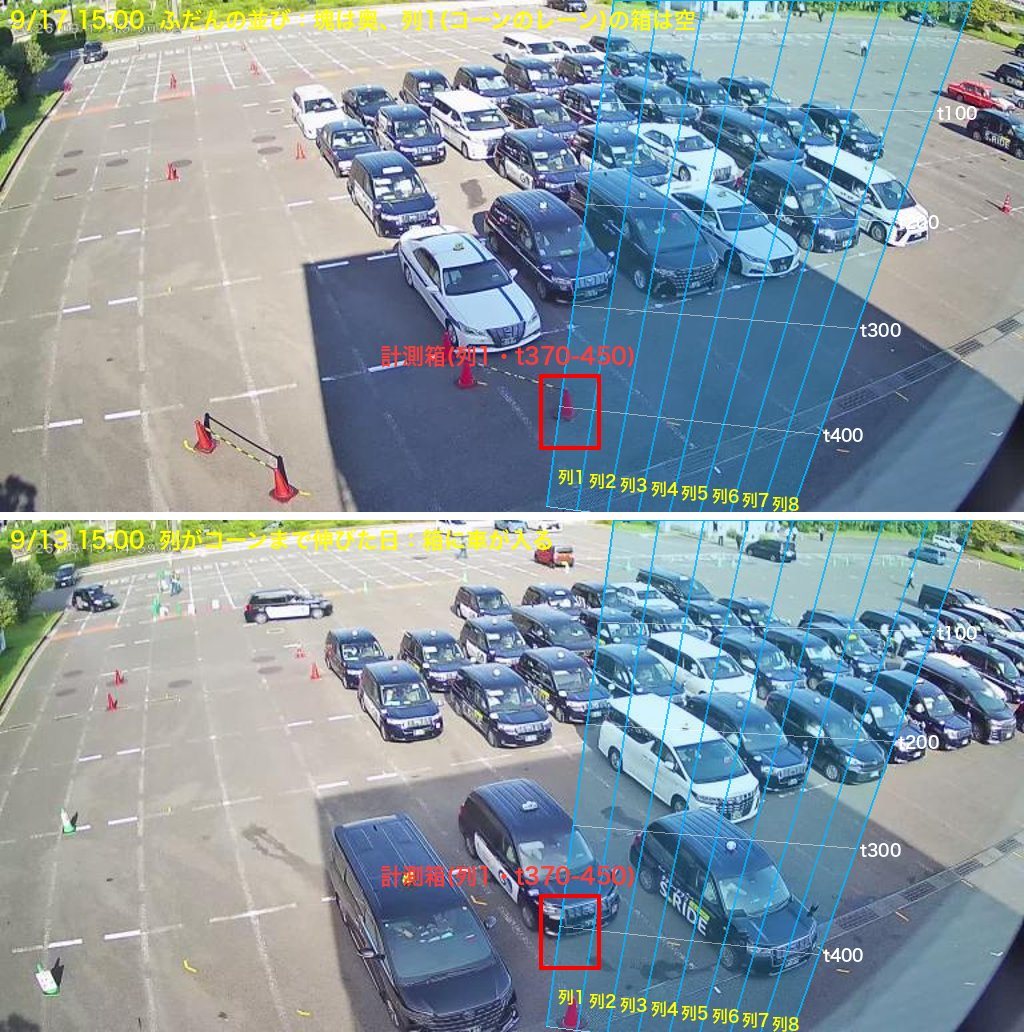
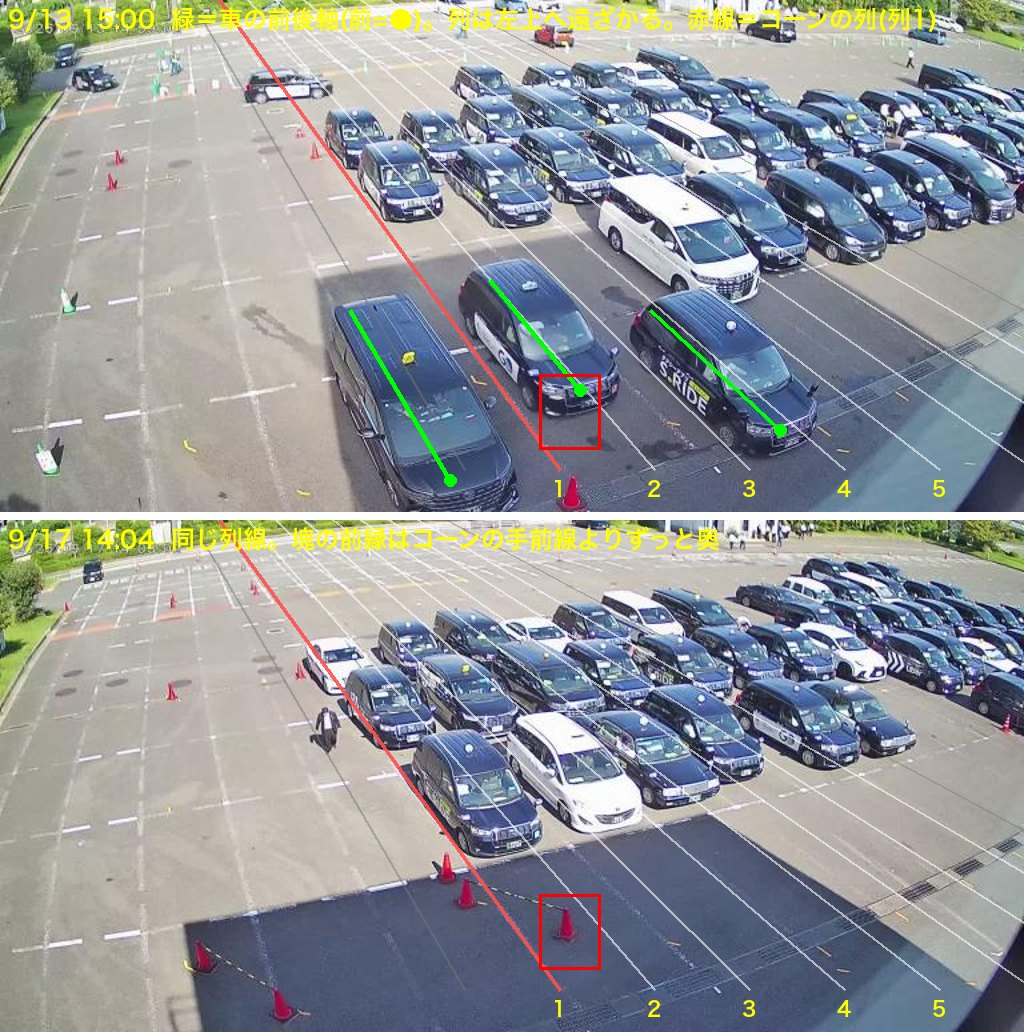
share: s4-view (phone)

diff --git a/s4-view/index.html b/s4-view/index.html
@@ -13,7 +13,7 @@ img{width:100%;border-radius:8px;border:1px solid #ddd;display:block}
 table{border-collapse:collapse;width:100%;font-size:15px}td,th{border-bottom:1px solid #e3e7eb;padding:6px 8px;text-align:left}
 svg{width:100%;height:auto}
 </style></head><body><main>
-<h1>4号の列移動 — 私の認識（2026-09-18）</h1>
+<h1>4号の列移動 — 私の認識（2026-09-18・描き直し版）</h1>
 <p class="lede">あなたが決めた定義と、Mac mini の画像で私が追った結果。合っていない所を指摘してください。</p>
 
 <section><h2>① 定義（記録から。ここは変えない）</h2>
@@ -29,10 +29,19 @@ svg{width:100%;height:auto}
 <text x="480" y="130" font-size="14" fill="#b9484a">fall</text><text x="690" y="50" font-size="14" fill="#1a7f3c">rise＝1回</text></svg>
 </section>
 
-<section><h2>② 設定を画像に重ねると</h2>
+<section><h2>② 車の向きと列（描き直し）</h2>
+<p class="ng">最初に出した青い縦線は間違いでした（設定ファイルの消失点をそのまま描いた。車の向きと合っていない）。車を見て引き直したのが下です。</p>
+<img src="images/00-zoom.jpg" alt="">
+<p class="cap">9/13 15:00 拡大。車は<b>カメラ側（画面の下・やや右）を向いて</b>止まっている（前のグリルが見える）。同じ列の後ろの車は<b>左上</b>にいる＝列は左上へ遠ざかる。横に並ぶ車が「行」。</p>
 <img src="images/01-config.jpg" alt="">
-<p class="cap">青＝設定上の4号後列（起点コーンから右へ8レーン、列1〜8）。赤＝計測箱（列1・t370-450）。上：9/17 15時。下：9/13 15時（列がコーンまで伸びた日）。</p>
-<p>見えること：<span class="ng">ふだん、塊は箱より奥（画面の上）に座っていて、箱の位置まで来ない</span>。9/13 のように長い日だけ箱に車が入る。昼の時間帯で箱に車がいるのは 1〜2割（明るさの分布から）。</p>
+<p class="cap">緑＝車の前後軸を3台で実測（●が前）。その向きで列線を引き直した。赤＝コーンの列（列1）。白＝その右の列2〜。赤枠＝計測箱（列1の、コーン手前線の位置）。</p>
+<p>見えること：</p>
+<ul>
+<li>9/13 は塊がコーンの手前線まで来ていて、<b>列1の先頭（箱）に車がいる</b>。</li>
+<li>9/17 14:04 は塊の前縁がコーンの手前線より<b>ずっと奥</b>で止まっている。列1の先頭は箱より奥にある＝箱は空。</li>
+<li>だから箱では「出る→埋まる」の対がほとんど起きない。</li>
+<li>設定の列線（消失点）が車の向きと合っていないので、<b>「コーンから右へ8レーン」の範囲も画像上でずれている可能性が高い</b>（要測り直し）。</li>
+</ul>
 </section>
 
 <section><h2>③ 20分の流れ（14:00→14:20、4分おき）</h2>
@@ -48,7 +57,7 @@ svg{width:100%;height:auto}
 <li>出た後、前縁の並びはほぼそのまま（4台）。<b>塊全体が横に動いた（横スライド）とは、この10分では見分けられなかった</b>。</li>
 <li>塊の形が変わるのは主に <b>奥（右上）からの入庫</b>。</li>
 </ul>
-<div class="q"><b>ここが私の未解決点</b>：この画像で「列1」がどの列で、横スライドがどう見えるのかを、まだ自分で特定できていません。設定の8レーン線（青）と、実際に車が並んでいる列の向きが合っているようにも見えないので、<b>レーンの向き（消失点）自体を疑っています</b>。</div>
+<div class="q"><b>未解決点</b>：塊の前縁が日によって（時間によって）どこで止まるかが変わるので、<b>固定の小さな箱1つ</b>では列1の先頭を追えない。「出る→埋まる」を列1の全奥行きで見る作りにする必要がある（設計変更＝あなたの承認が要る）。</div>
 </section>
 
 <section><h2>⑤ 日ごとの箱の状態</h2>
@@ -60,7 +69,7 @@ svg{width:100%;height:auto}
 
 <section><h2>⑥ 次に私がやること（あなたの承認なしで動かさない）</h2>
 <ul>
-<li>まず<b>レーンの向きを画像から取り直す</b>（車の並びの向き＝列方向を、昼の複数フレームで測る）。</li>
+<li>列の向きを<b>車の前後軸から測り直して設定に入れる</b>（今回は3台で仮測定。複数フレーム・多数台で確定する）。</li>
 <li>そのうえで <b>1日分の画像を通しで追い、「列1が空く→塊が横にずれる」が実際にどこで起きているか</b>を画像で示す。</li>
 <li>それが分かってから、箱の置き場所を提案する（数を増やす目的では動かさない）。</li>
 </ul>
